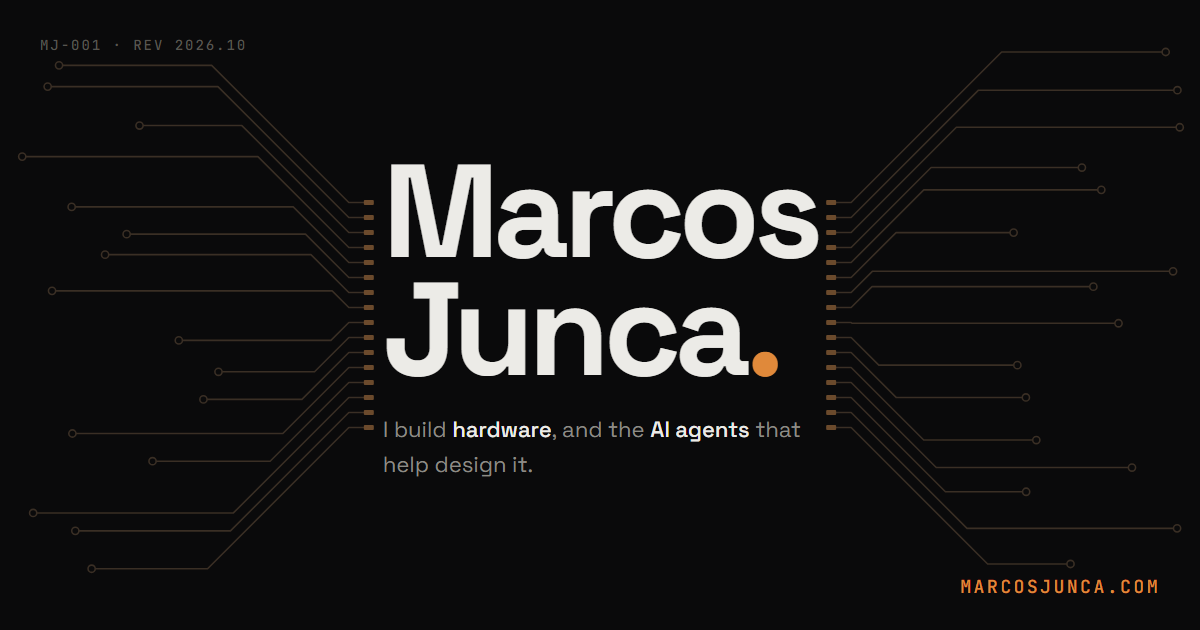
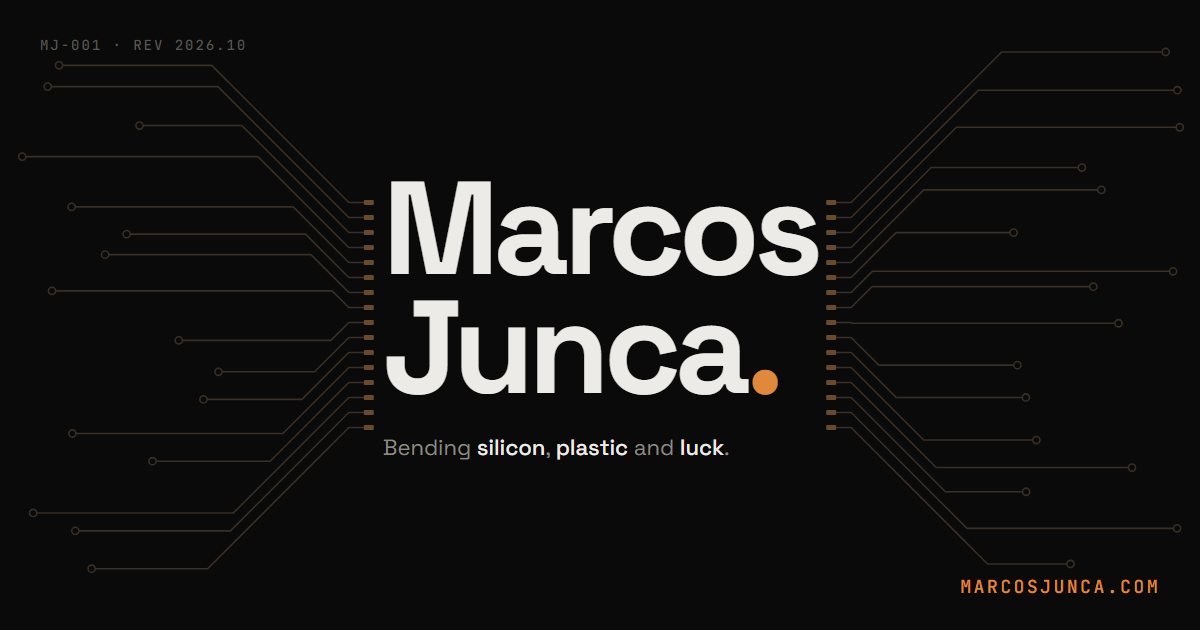
Tagline: Bending silicon, plastic and luck.

Changed region(s): [[0.3083, 0.2413, 0.7092, 0.6333], [0.3083, 0.6635, 0.6783, 0.754]]

diff --git a/index.html b/index.html
@@ -4,7 +4,7 @@
 <meta charset="utf-8">
 <meta name="viewport" content="width=device-width, initial-scale=1">
 <title>Marcos Junca</title>
-<meta name="description" content="I build hardware, and the AI agents that help design it. Co-founder and CTO of Senecta. Open source: hwkit, jlc-agent, sessionlift.">
+<meta name="description" content="Bending silicon, plastic and luck. Hardware, the AI agents that help design it, and open source: hwkit, jlc-agent, sessionlift.">
 <link rel="canonical" href="https://marcosjunca.com/">
 <link rel="icon" href="favicon.svg" type="image/svg+xml">
 <meta name="color-scheme" content="dark">
@@ -12,7 +12,7 @@
 <meta property="og:type" content="website">
 <meta property="og:url" content="https://marcosjunca.com/">
 <meta property="og:title" content="Marcos Junca">
-<meta property="og:description" content="I build hardware, and the AI agents that help design it.">
+<meta property="og:description" content="Bending silicon, plastic and luck.">
 <meta property="og:image" content="https://marcosjunca.com/og.png">
 <meta property="og:image:width" content="1200">
 <meta property="og:image:height" content="630">
@@ -130,7 +130,7 @@
   <div class="chip" id="chip">
     <div class="silk">U1 · hardware engineer</div>
     <h1>Marcos<br>Junca<span class="dot">.</span></h1>
-    <p class="lede">I build <b>hardware</b>, and the <b>AI agents</b> that help design it.</p>
+    <p class="lede">Bending <b>silicon</b>, <b>plastic</b> and <b>luck</b>.</p>
     <ul class="links">
       <li><a href="https://github.com/marcosjunca06">GitHub ↗</a></li>
       <li><a href="https://senecta.ai">Senecta ↗</a></li>
